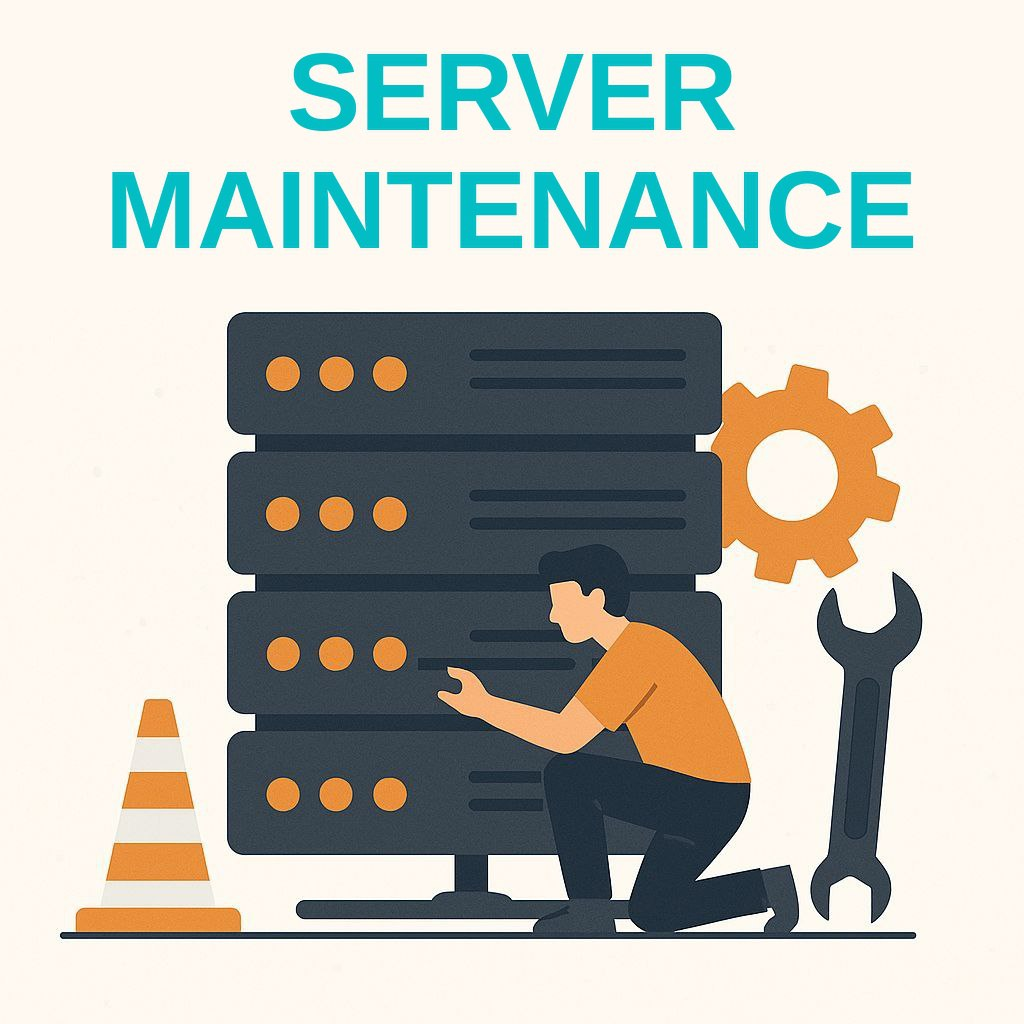
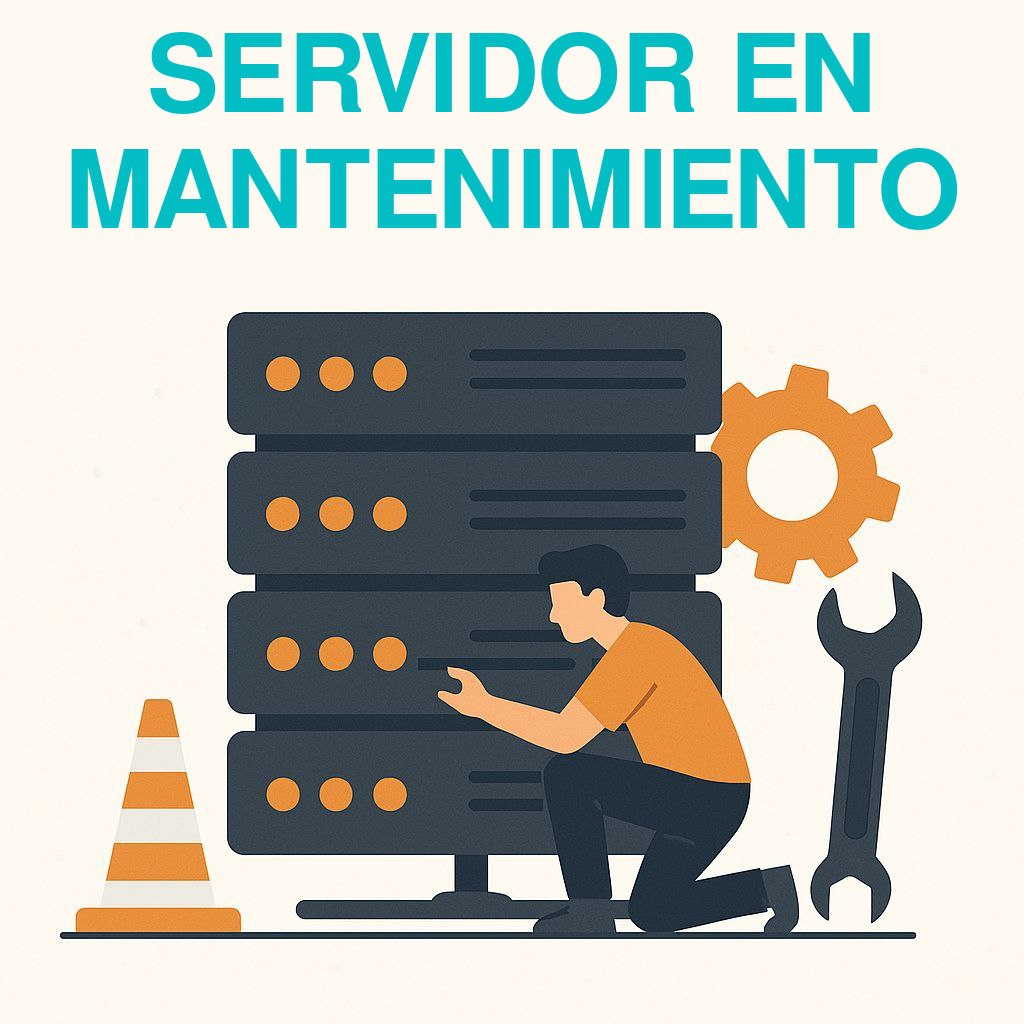
Texto justificado y traducido al español

Changed region(s): [[0.0625, 0.0312, 0.9375, 0.25]]

diff --git a/index.html b/index.html
@@ -15,8 +15,8 @@
         <section class="error-container">
             <div class="status">
                 <p>ERROR 503</p>
+                <img class="server-img" src="assets/images/server.jpg" alt="Servidor en mantenimiento">
             </div>
-            <img class="server-img" src="assets/images/server.jpg" alt="Servidor en mantenimiento">
 
             <h2>Servidor no disponible, por problemas técnicos o mantenimiento</h2>
 
@@ -30,7 +30,7 @@
     </main>
 
     <footer>
-        <p>503 Service Unavailable</p>
+        <p>503 Servicio no disponible</p>
[1 lines of base64/hex data omitted]
     </footer>
    

diff --git a/assets/css/errors.css b/assets/css/errors.css
@@ -20,7 +20,7 @@
 }
 
 body{
-    font-family: 'Tahoma',sans-serif;
+    font-family: 'Plus Jakarta Sans', sans-serif;
     background: var(--fondo);
     color: var(--color-defecto-p);
     display: flex;
@@ -60,15 +60,22 @@ main{
 }
 
 .status{
+    display: flex;
+    align-items: center;
+    justify-content: center;
+    flex-direction: column;
+}
+
+.status p{
     letter-spacing: 2px;
     color: var(--color-p);
     padding: 20px 10px;
 }
 
 .error-container{
-    width: 100%;
-    max-width: 600px;
-    text-align: center;
+    width: 600px;
+    /* max-width: 600px; */
+    text-align: justify;
 }
 
 .server-img{
